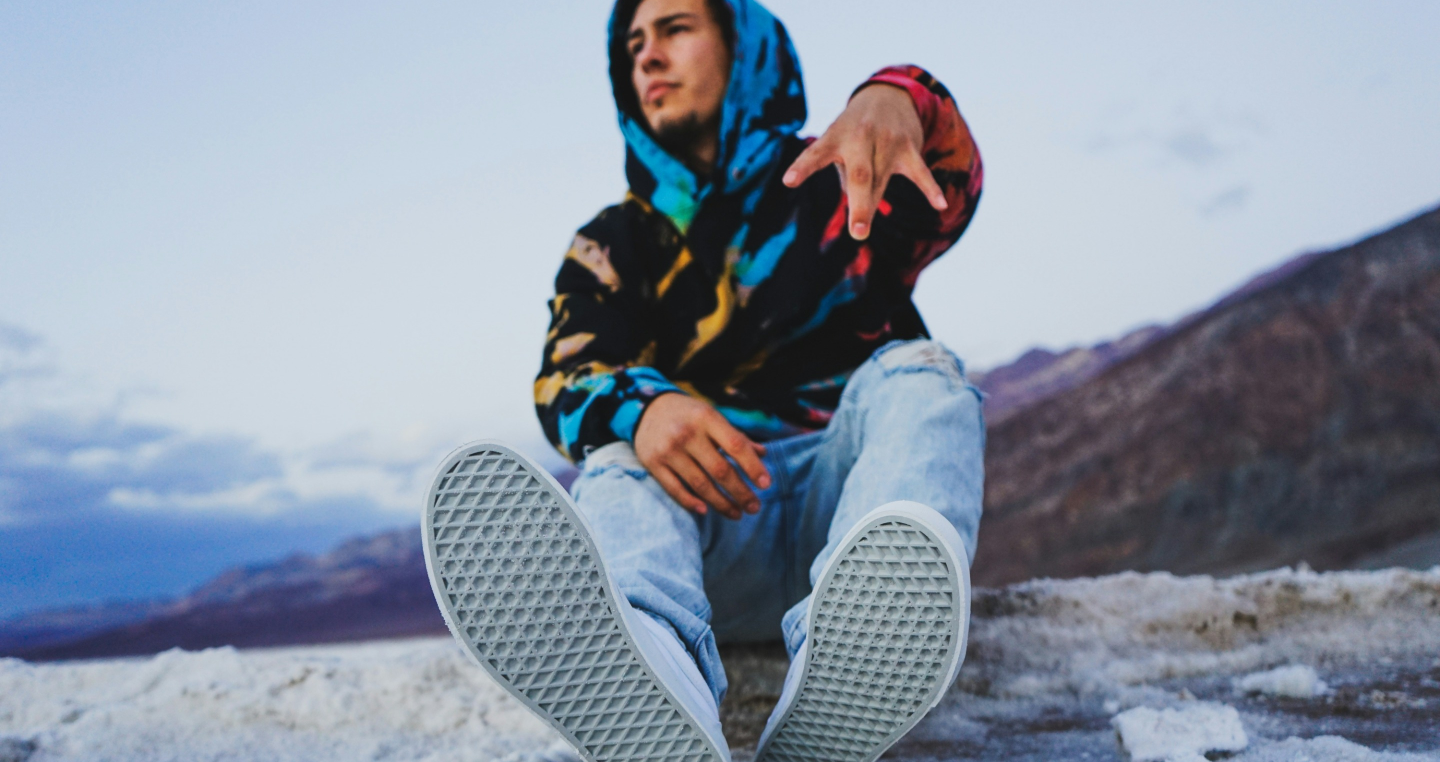
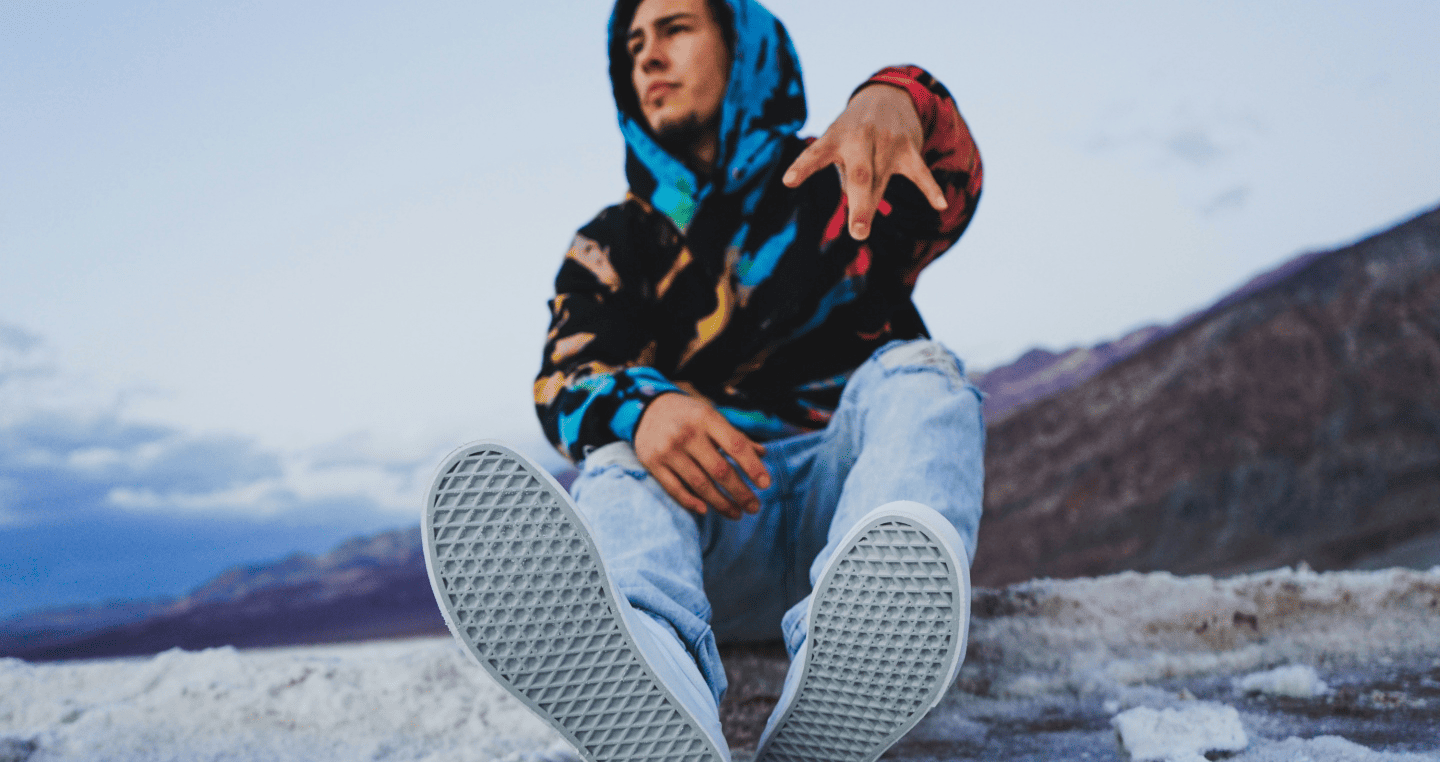
optimizacion

diff --git a/scss/layout/_main.scss b/scss/layout/_main.scss
@@ -224,7 +224,6 @@ $transition-duration: 0.3s;
     display: flex;
     flex-direction: row-reverse;
     align-items: center;
-    border: solid 1px black;
     margin: 1.25rem;
 
     img {
@@ -260,18 +259,18 @@ $transition-duration: 0.3s;
 }
 
 
-.nosotros-flex:hover {
+.nosotros-flex {
     background: #fff; // Fondo blanco para las tarjetas
     border: 1px solid #ddd; // Borde ligero
     border-radius: 8px; // Bordes redondeados
     box-shadow: $card-shadow; // Sombra inicial
-    transition: transform $transition-duration ease, box-shadow $transition-duration ease; // Transición suave 
 }
-
-.nosotros-flex {
-    transform: translateY(-10px); // Mueve la tarjeta hacia arriba
-    box-shadow: $card-hover-shadow; // Aumenta la sombra para el efecto de elevación
-  }
+.nosotros-reverse{
+    background: #fff; // Fondo blanco para las tarjetas
+    border: 1px solid #ddd; // Borde ligero
+    border-radius: 8px; // Bordes redondeados
+    box-shadow: $card-shadow; // Sombra inicial
+}
 
 // termina nosotros
 .banner-contactanos {

diff --git a/index.html b/index.html
@@ -65,7 +65,7 @@
       <section class="banners">
       <section class="index-polerones">
         <div class="index-texto">
-        <h2>Todo en polerones</h2>
+        <h2>buzos</h2>
         <a href="./pages/polerones.html"><button>click aquí</button></a>
       </div>
     </section>
@@ -74,14 +74,14 @@
     
     <section class="index-poleras">
       <div class="index-texto">
-        <h2>Todo en poleras</h2>
+        <h2>poleras</h2>
         <a href="./pages/poleras.html"><button>Click aquí</button></a>
       </div>
     </section>
     </div>
       <section class="index-pantalones">
         <div class="index-texto">
-        <h2>Todo en pantalones</h2>
+        <h2>pantalones</h2>
         <a href="./pages/pantalones.html"><button>Click aquí</button></a>
       </div>
       </section>

diff --git a/css/style.css b/css/style.css
@@ -237,7 +237,6 @@ main .banners .index-polerones {
   display: flex;
   flex-direction: row-reverse;
   align-items: center;
-  border: solid 1px black;
   margin: 1.25rem;
 }
 .nosotros-reverse img {
@@ -274,17 +273,18 @@ main .banners .index-polerones {
   }
 }
 
-.nosotros-flex:hover {
+.nosotros-flex {
   background: #fff;
   border: 1px solid #ddd;
   border-radius: 8px;
   box-shadow: 0 4px 8px rgba(0, 0, 0, 0.2);
-  transition: transform 0.3s ease, box-shadow 0.3s ease;
 }
 
-.nosotros-flex {
-  transform: translateY(-10px);
-  box-shadow: 0 8px 16px rgba(0, 0, 0, 0.3);
+.nosotros-reverse {
+  background: #fff;
+  border: 1px solid #ddd;
+  border-radius: 8px;
+  box-shadow: 0 4px 8px rgba(0, 0, 0, 0.2);
 }
 
 .banner-contactanos {
